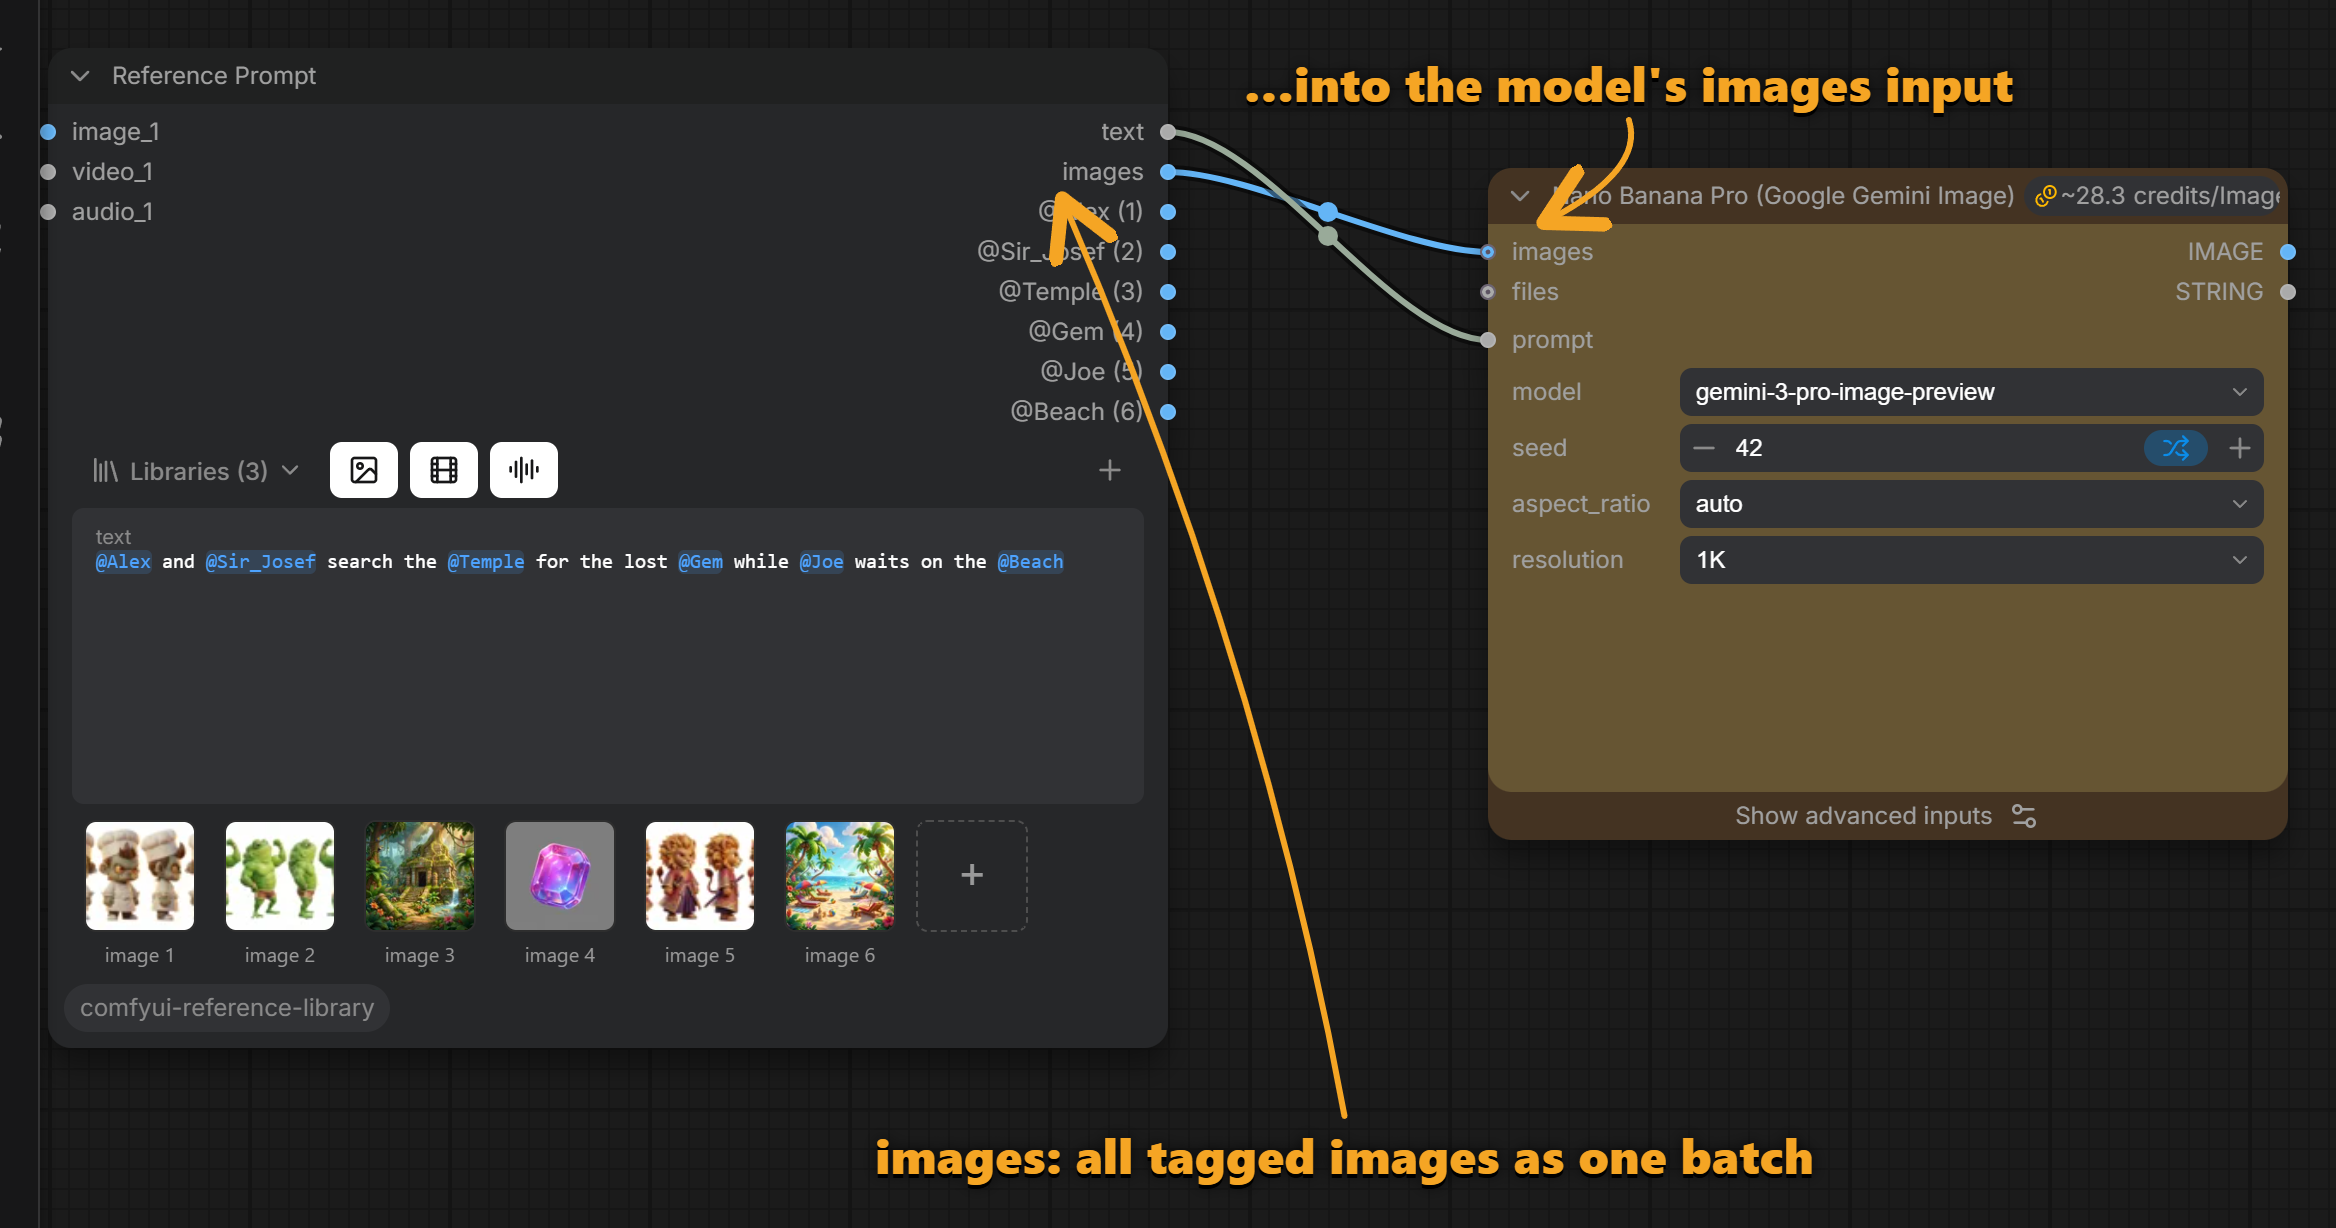
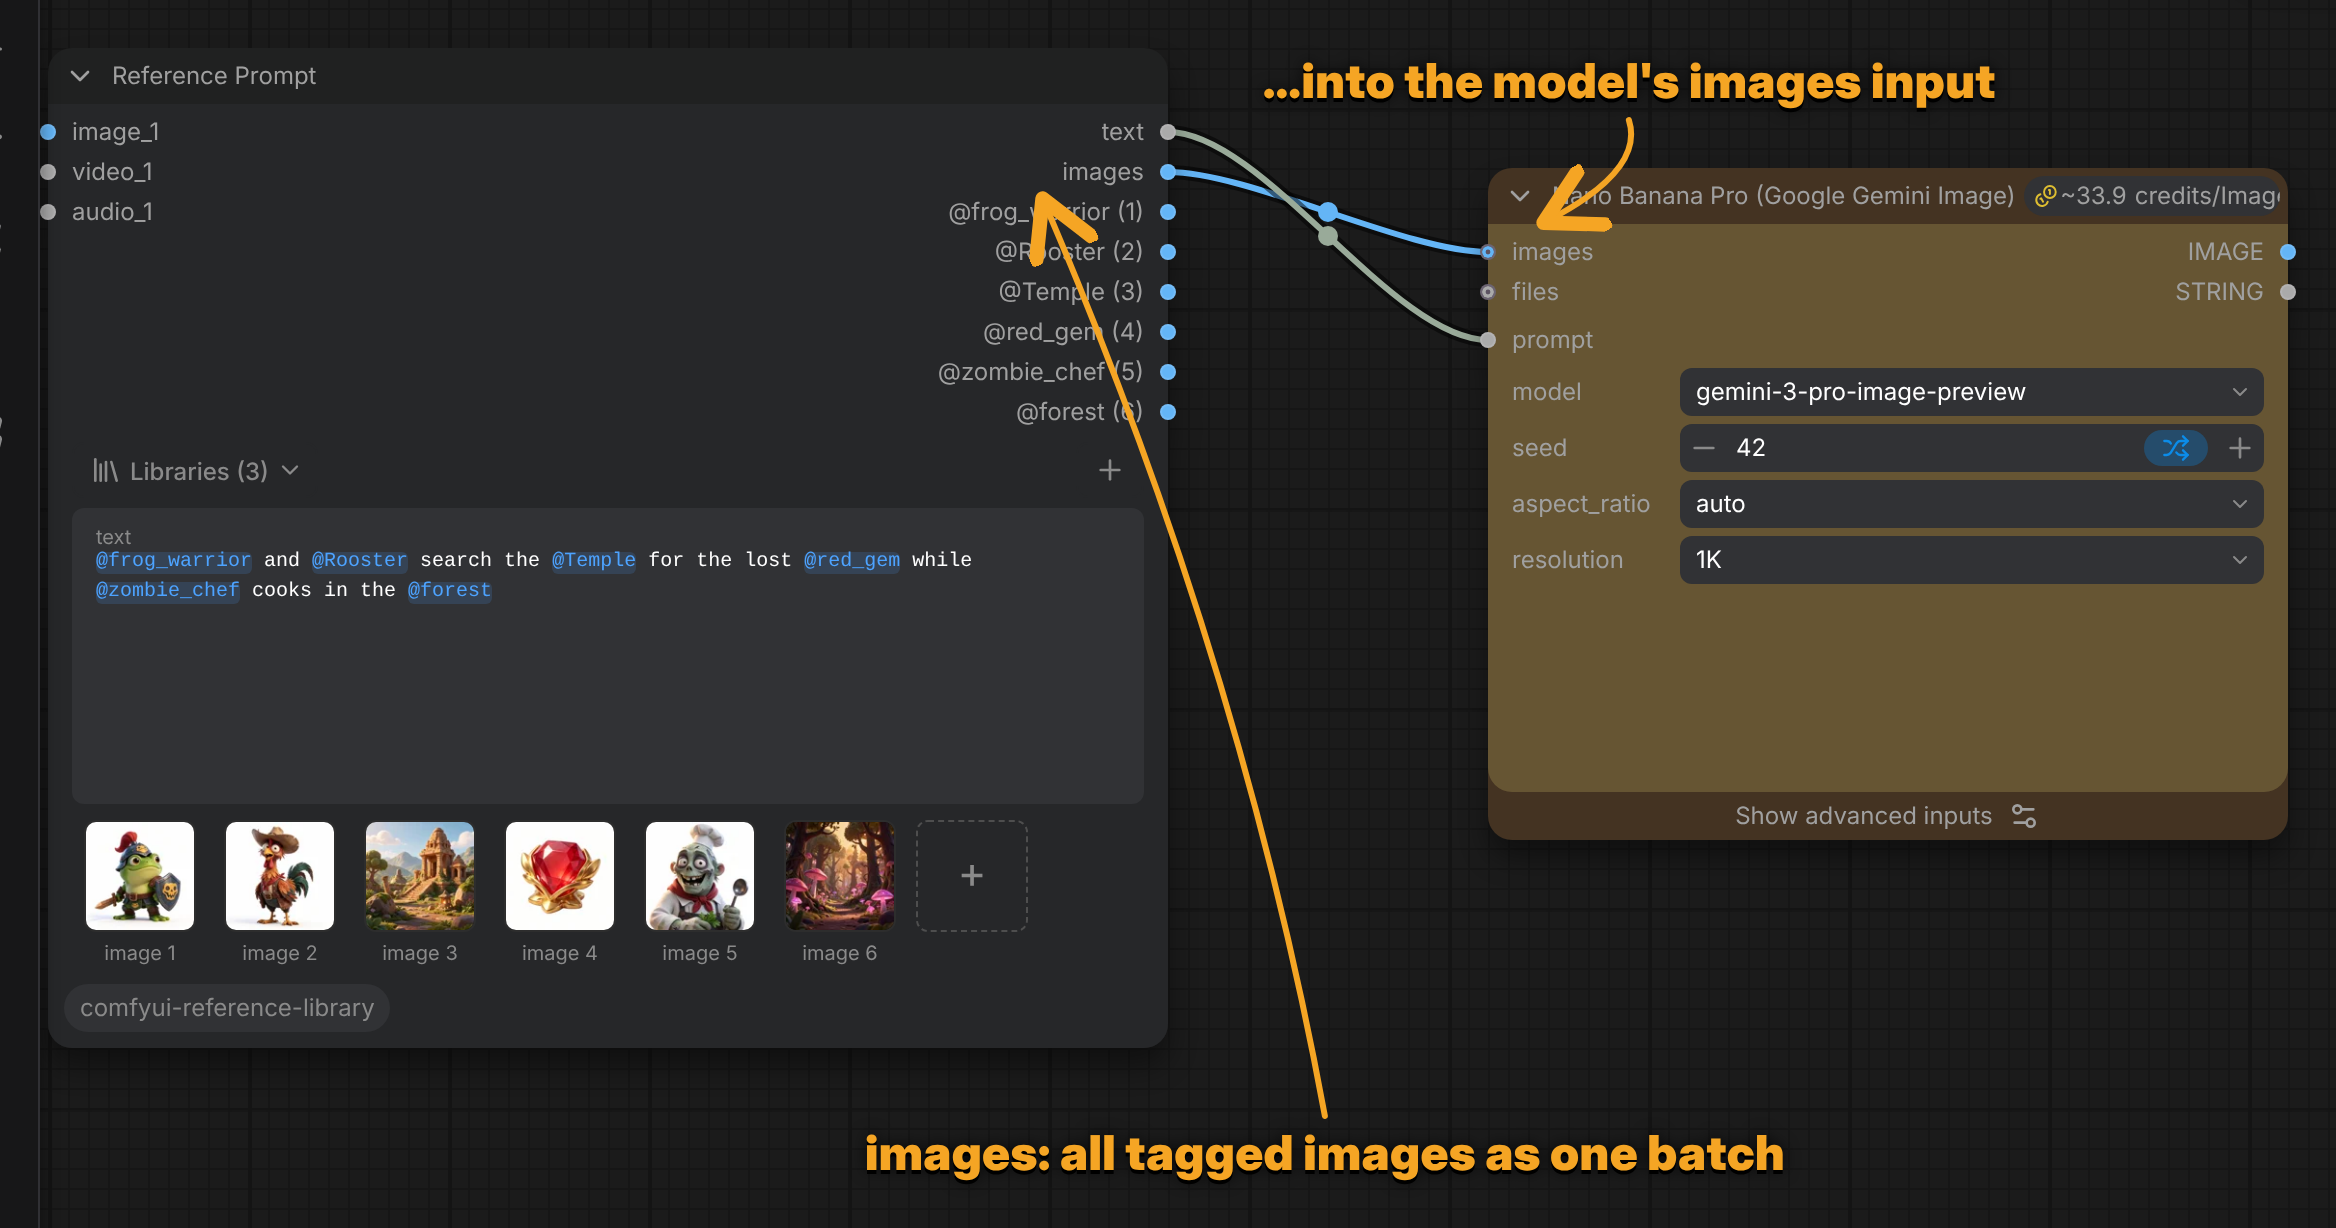
updating screenshots

diff --git a/README.md b/README.md
@@ -23,12 +23,14 @@ and that's it.
 </p>
 
 When you queue, every file you tagged is loaded and plugged into the model's image (video, audio)
-inputs for you, in the order shown under the text, and `@Alex` becomes `image 1` in the prompt the
+inputs for you, in the order shown under the text, and `@frog_warrior` becomes `image 1` in the prompt the
 model receives. Add a tag, and one more image goes along; remove it, and it's gone. The canvas stays
 the same two nodes, however many references you use.
 
 - **Asset libraries:** named collections of your files, referenced in place, shared by all workflows.
 - **`@` autocomplete** with thumbnails; tags colored by state; hover a tag for a preview.
+- **Manage a library** in one window: preview, rename, replace or remove its files, several at once.
+- **Slices:** cut part of a library image (a face, a prop) and use it instead, without touching the library.
 - **Images, videos and audio**, plus [files from other nodes](#files-that-arent-in-a-library)
   (Load Image, …), placed before or after the library files.
 
@@ -41,6 +43,7 @@ the same two nodes, however many references you use.
 - [Supported model nodes](#supported-model-nodes)
 - [Older models with one image input](#older-models-with-one-image-input)
 - [Files that aren't in a library](#files-that-arent-in-a-library)
+- [Edit a library: manage its files](#edit-a-library-manage-its-files)
 - [Slices: use part of an image](#slices-use-part-of-an-image)
 - [Outputs: every tagged file, and a batch](#outputs-every-tagged-file-and-a-batch)
 - [Libraries in detail](#libraries-in-detail)
@@ -234,8 +237,8 @@ own. That's what its **`images`** output is for. Connect two wires:
 That's it. When you queue:
 
 - The `images` output becomes a batch of every tagged image, in the order of the numbers on the outputs
-  (`@Alex (1)` first, `@Sir_Josef (2)` second, …) and under the thumbnails.
-- The prompt is rewritten to match: `@Alex` becomes "image 1", `@Sir_Josef` "image 2", and so on.
+  (`@frog_warrior (1)` first, `@Rooster (2)` second, …) and under the thumbnails.
+- The prompt is rewritten to match: `@frog_warrior` becomes "image 1", `@Rooster` "image 2", and so on.
 - A batch needs one size for all images, so each image is **fitted inside the size of image 1 and padded**
   (black bars). Nothing is cropped away.
 
@@ -287,29 +290,70 @@ Good to know:
   works as a tag.
 - It also gets its own output on the Reference Prompt, like library files: see [Outputs](#outputs-every-tagged-file-and-a-batch).
 
+## Edit a library: manage its files
+
+Open **Libraries** in the node's header and click **✎** next to a library. One window shows the whole
+library:
+
+<img src="docs/images/14_edit_library.png" width="900" alt="The Edit library window: the library's name at the top, its files in a grid, and the selected file's properties on the right">
+
+- **The library's name** at the top: change it and click **Rename** (tags that name the library, like
+  `@Game_Assets/Rooster`, follow).
+- **All its files** in a scrollable grid. The **Thumbnail size** slider makes them bigger or smaller; the
+  image / video / audio buttons and the filter field narrow the list down. Files that are missing on disk
+  are marked purple.
+- **The selected file** on the right: a large preview (videos and audio play), its `@name`, its file name
+  and the full path on your disk (**Copy** puts it on the clipboard).
+  - **Rename:** type a new `@name` and press **Enter** or **Rename**. Tags in your prompts follow.
+  - **Replace file…** points it at another file of the same type (or finds a moved file). Its `@name`
+    stays, so your prompts keep working.
+  - **Remove from library** forgets it; the file itself stays on your disk.
+- **+ Add files…** adds more files to this library.
+
+**Several at once.** ⌘/Ctrl-click or Shift-click files (or Shift+arrows, ⌘/Ctrl+A for all shown) to select
+several, then remove them together. Renaming, replacing, copying the path and the preview work on one file
+at a time, so they're switched off while several are selected.
+
+<img src="docs/images/15_select_several.png" width="900" alt="Three files selected in the Edit library window, with Remove 3 assets from library">
+
+Every change is saved straight away. From the keyboard: arrows move through the grid, Space adds or takes
+out one, **Delete** removes, **F2** or **Enter** renames.
+
 ## Slices: use part of an image
 
-Need only a face, a logo or a prop from a library image? Hover its tag and click the **dotted square** in the
-top-right corner of the preview. The image opens large:
+Need only a face, a prop or a corner of a library image? Hover its tag in the prompt and click the
+**dotted square** in the top-right corner of the preview (see [Hover a tag](#8-hover-a-tag)). The image
+opens large:
 
-- **Drag** to mark an area; drag inside it to move it, the handles resize it. **Shift** (or **Square**)
-  keeps it square. **Select all** / **Clear**, arrow keys nudge it.
-- **Zoom** with the wheel or a pinch (or **−** / **+**, **Fit**, **1:1**); **pan** with Space+drag or the
-  middle mouse button. The selection's size is shown in the file's own pixels.
+<img src="docs/images/16_slice_an_image.png" width="900" alt="The slicer: the frog warrior's head marked with a square selection">
 
-**Replace with slice** cuts the area out of the full-size file and saves it as a new PNG in ComfyUI's
-`input` folder (`Alex_slice_01.png`, `Alex_slice_02.png`, …). A **Load Image** node ("Slice of @Alex") is
-added to the left of the Reference Prompt and plugged into its next free `image_N` input, and every tag of
-that image in this prompt (`@Alex`, `@Characters/Alex`) becomes the slice's tag (`@Alex_slice_01`). From
-there it is a [file that isn't in a library](#files-that-arent-in-a-library): First/Last, its own output,
-and so on. The library and its file are never changed; delete the Load Image node and put the tag back to
-undo it.
+- **Drag** to mark an area. Drag inside it to move it; the handles resize it. Hold **Shift** (or tick
+  **Square**) to keep it square. **Select all**, **Clear**, and the arrow keys nudge it.
+- **Zoom** with the mouse wheel or a trackpad pinch (or **−** / **+**, **Fit**, **1:1**), and **pan** with
+  Space+drag or the middle mouse button.
+- The selection's size is shown in the file's own pixels, so you know what the model will get.
+
+Click **Replace with slice**:
+
+<img src="docs/images/17_slice_plugged_in.png" width="760" alt="A Load Image node named Slice of @frog_warrior plugged into image_1, and the prompt now says @frog_warrior_slice_01">
+
+1. The area is cut out of the **full-size file** and saved as a new PNG in ComfyUI's `input` folder:
+   `frog_warrior_slice_01.png`, then `_02`, … for the next ones.
+2. A **Load Image** node, "Slice of @frog_warrior", is added next to the Reference Prompt and plugged into
+   its next free `image_N` input.
+3. Every tag of that image in this prompt (`@frog_warrior`, `@Game_Assets/frog_warrior`) becomes the
+   slice's tag, `@frog_warrior_slice_01`.
+
+From there the slice is a [file that isn't in a library](#files-that-arent-in-a-library): it has its own
+thumbnail and output, and First/Last decides where it goes. **The library isn't changed**: the original file
+stays in it, untouched, for your other prompts. To go back, delete the Load Image node and type the original
+tag again.
 
 ## Outputs: every tagged file, and a batch
 
 Next to `text`, the Reference Prompt has an output for **every tagged file**, library files and plugged-in
 files alike, plus one **`images`** output with all tagged images as a batch. The number after each name is
-where that file goes: **`@Coin (1)`** is `image_1` (`(2)` is `image_2`, …). The numbers follow First/Last
+where that file goes: **`@frog_warrior (1)`** is `image_1` (`(2)` is `image_2`, …). The numbers follow First/Last
 and match the numbers under the thumbnails and the "image 1, image 2…" in the prompt.
 
 The `images` output is made for models with a single `images` input (Nano Banana Pro, …): see
@@ -321,7 +365,7 @@ IP-Adapter, …
 
 **Outputs follow the tags.** When a tag leaves the text, or its plugged-in file is unplugged or swapped for
 another file, its output goes away. If you've wired it to something, the wire is never cut for you: the
-output stays, marked with the reason (`@Coin ⚠ not in text`, `⚠ unplugged`, `⚠ file changed`, …), and the
+output stays, marked with the reason (`@Rooster ⚠ not in text`, `⚠ unplugged`, `⚠ file changed`, …), and the
 queue is refused until you put the tag or file back or remove that wire (the label is shown in red). So a model never gets an image the
 prompt doesn't name.
 
@@ -331,18 +375,12 @@ prompt doesn't name.
   ComfyUI. Web links, cloud storage links (Google Drive, Dropbox, …) and Comfy Cloud aren't supported.
   Libraries also aren't shared: a workflow opened on another computer finds its tags only if that
   computer has a library with the same names. Sharing libraries is planned.
-- **Several libraries.** A plain `@Biscuit` means the first enabled library that has it;
-  `@Library_02/Biscuit` names the library (typing `@Library_02/` in the list shows only that library).
+- **Several libraries.** A plain `@Rooster` means the first enabled library that has it;
+  `@Library_02/Rooster` names the library (typing `@Library_02/` in the list shows only that library).
 - **Per node:** switch libraries on or off in each node's **Libraries** menu, which also edits and
   deletes libraries.
-- **Edit a library:** click **✎** next to it in the **Libraries** menu. Rename the library at the top;
-  below, all its files in a grid (filter them by type with the image / video / audio buttons, or by name;
-  the **Thumbnail size** slider sets how big they are). Select one to see its preview, `@name`, file name and full path on the right, and to rename it,
-  **Replace file…** (same type; its name and tags stay) or **Remove from library**. Select several
-  (⌘/Ctrl-click, Shift-click, Shift+arrows, ⌘/Ctrl+A) to remove them all at once; renaming, replacing,
-  copying the path and the preview need a single asset. **+ Add files…** adds more. Missing files are
-  marked purple: replace them to point at their new location. Arrow keys move through the grid, Space
-  adds or takes out one, **Delete** removes, **F2** or **Enter** renames. Changes are saved straight away.
+- **Edit a library:** click **✎** next to it in the **Libraries** menu: see
+  [Edit a library](#edit-a-library-manage-its-files).
 - **Tags follow changes.** Renaming, replacing or removing an asset, or deleting or switching a
   library, keeps every tag in the open workflow on its file (renames follow; a removed file's tag
   turns red).

diff --git a/tools/screenshots/README.md b/tools/screenshots/README.md
@@ -7,13 +7,23 @@ redone after every UI change with one command:
 node tools/screenshots/make_screenshots.mjs
 ```
 
-It writes `00_…png` to `13_…png` into `docs/images/` (the images the main README shows) using the demo files in
-`../Resources/{Characters,Environments,Icons}`. Options:
+It writes `00_…png` to `17_…png` into `docs/images/` (the images the main README shows) using the demo images in
+`../Resources` (next to the repo). They are found by file name, flat or in subfolders; which file plays which
+part is set in `DEMO` at the top of the script:
+
+| Part | Files |
+|---|---|
+| First library (picked several at once) | `frog_warrior`, `rooster_cowboy`, `zombie_chef` |
+| One file, named in the dialog (`@Temple`) | `temple_ruin` |
+| Two more libraries | `Environments`: `forest`, `temple_02`; `Items`: `golden_coin`, `red_gem` |
+| A file outside the library (Load Image) | `forest_02`, copied as `Night_Forest.png` |
+
+Options:
 
 | Option | Default | |
 |---|---|---|
 | `--out DIR` | `<repo>/docs/images` | where the PNGs go (existing files with the same names are replaced) |
-| `--resources DIR` | `<repo>/../Resources` | demo files: `Characters/` (first library, several at once), `Environments/` (`Ancient_Temple` is added on its own), `Icons/` |
+| `--resources DIR` | `<repo>/../Resources` | the demo images (see above) |
 | `--port N` | `8190` | port of the temporary ComfyUI (Chrome's debug port is N+1000) |
 | `--keep` | | keep the temp folder (ComfyUI log, settings) for debugging |
 | `--show` | | run Chrome with a visible window |
@@ -30,9 +40,11 @@ It writes `00_…png` to `13_…png` into `docs/images/` (the images the main RE
 
 ## Requirements and paths
 
-Node 22 or newer, Chrome (or Edge), and ComfyUI Desktop on Windows. Other setups: set
-`COMFYUI_DIR` (folder with `main.py`), `COMFYUI_PYTHON`, `COMFYUI_FRONTEND` (frontend folder, Desktop:
-`web_custom_versions/desktop_app`) and `CHROME`.
+Node 22 or newer, Chrome (or Edge, or Chromium), and ComfyUI Desktop on Windows. Other setups (macOS, Linux, a
+git checkout of ComfyUI): set `COMFYUI_DIR` (folder with `main.py`), `COMFYUI_PYTHON`, `COMFYUI_FRONTEND`
+(frontend folder; Desktop: `web_custom_versions/desktop_app`, a pip install:
+`site-packages/comfyui_frontend_package/static`) and `CHROME`. Callouts use Segoe UI Black, or Inter Display
+where that isn't installed.
 
 ## Changing the walkthrough
 
